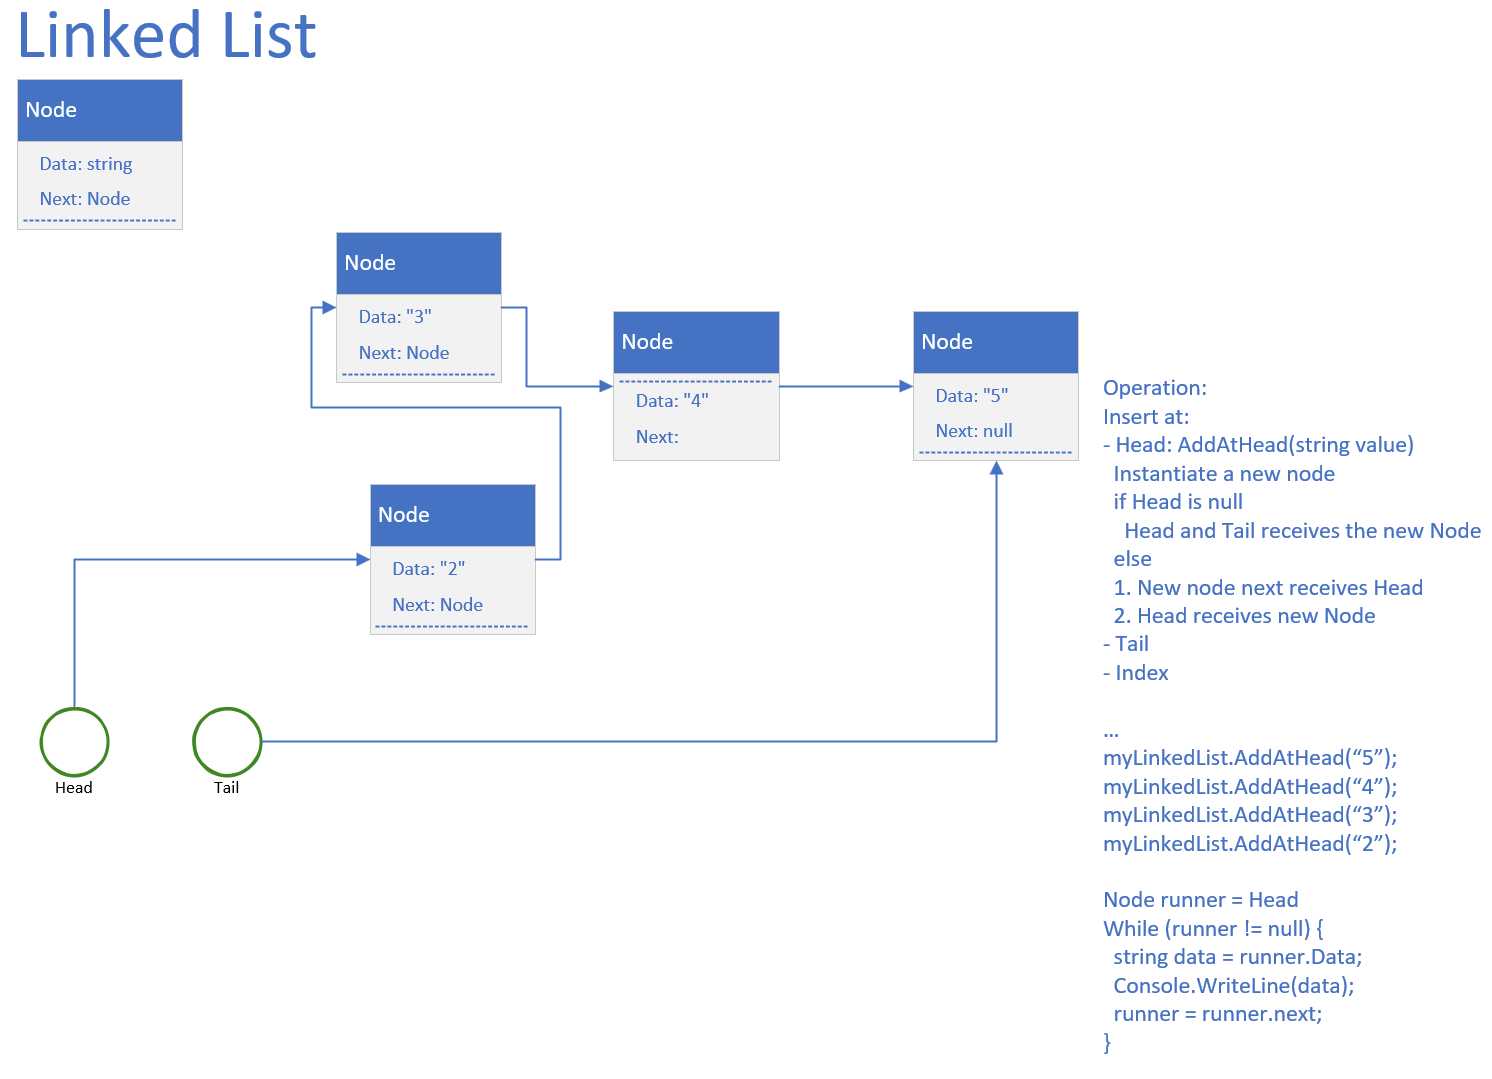
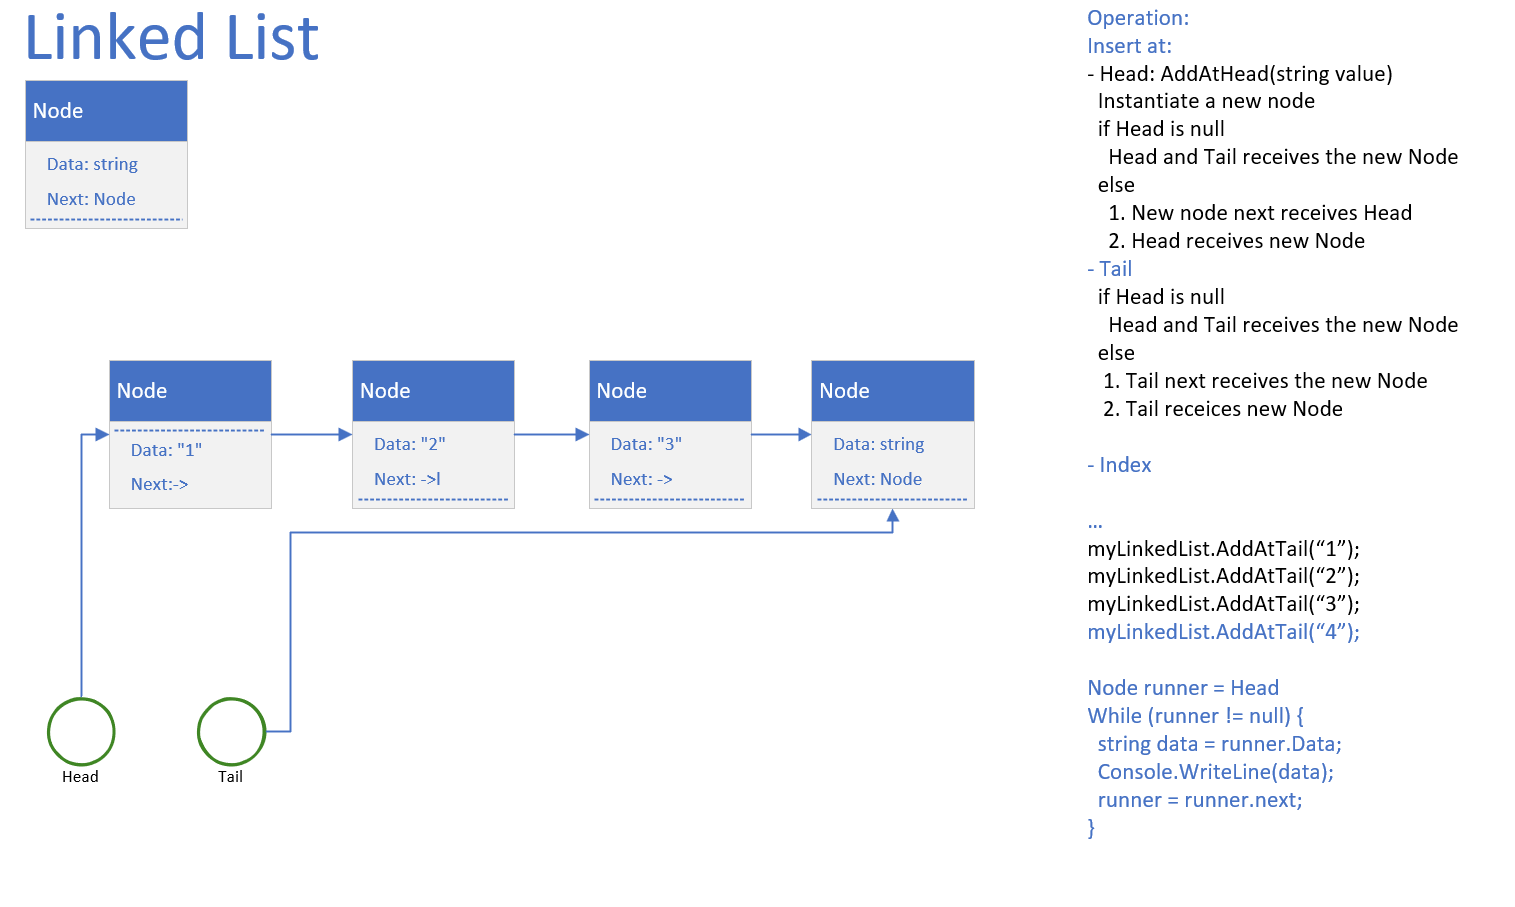
Class #140: Data Structures - Linked List (Part 2)

diff --git a/CSharp/_14_DataStructures/_02_LinkedList.cs b/CSharp/_14_DataStructures/_02_LinkedList.cs
@@ -5,21 +5,21 @@ namespace DataStructures.LinkedList;
 
 public class LinkedListApp
 {
-    public static void Main(string[] args)
+  public static void Main(string[] args)
+  {
+    var linkedList = new LinkedList();
+    linkedList.AddAtHead("Node 3");
+    linkedList.AddAtHead("Node 2");
+    linkedList.AddAtHead("Node 1");
+    foreach (var node in linkedList)
     {
-        var linkedList = new LinkedList();
-        linkedList.AddAtHead("Node 3");
-        linkedList.AddAtHead("Node 2");
-        linkedList.AddAtHead("Node 1");
-        foreach (var node in linkedList)
-        {
-            Console.WriteLine(node);
-        }
-        foreach (Node node in linkedList)
-        {
-            Console.WriteLine($"Node Data: {node.Data}");
-        }
+      Console.WriteLine(node);
     }
+    foreach (Node node in linkedList)
+    {
+      Console.WriteLine($"Node Data: {node.Data}");
+    }
+  }
 }
 
 /// <summary>
@@ -27,30 +27,30 @@ public class LinkedListApp
 /// </summary>
 public class Node
 {
-    /// <summary>
-    /// Gets or sets the data stored in the node.
-    /// </summary>
-    public string Data { set; get; }
+  /// <summary>
+  /// Gets or sets the data stored in the node.
+  /// </summary>
+  public string Data { set; get; }
 
-    /// <summary>
-    /// Gets or sets the reference to the next node in the linked list.
-    /// </summary>
-    public Node Next { set; get; }
+  /// <summary>
+  /// Gets or sets the reference to the next node in the linked list.
+  /// </summary>
+  public Node Next { set; get; }
 
-    /// <summary>
-    /// Initializes a new instance of the <see cref="Node"/> class with the specified data.
-    /// </summary>
-    /// <param name="data">The data to be stored in the node.</param>
-    public Node(string data)
-    {
-        Data = data;
-        Next = null;
-    }
+  /// <summary>
+  /// Initializes a new instance of the <see cref="Node"/> class with the specified data.
+  /// </summary>
+  /// <param name="data">The data to be stored in the node.</param>
+  public Node(string data)
+  {
+    Data = data;
+    Next = null;
+  }
 
-    public override string ToString()
-    {
-        return $"[{Data}]";
-    }
+  public override string ToString()
+  {
+    return $"[{Data}]";
+  }
 }
 
 /// <summary>
@@ -58,121 +58,130 @@ public class Node
 /// </summary>
 public class LinkedList : IEnumerable
 {
-    /// <summary>
-    /// Gets the head node of the linked list.
-    /// </summary>
-    public Node Head { get; private set; }
+  /// <summary>
+  /// Gets the head node of the linked list.
+  /// </summary>
+  public Node Head { get; private set; }
 
-    /// <summary>
-    /// Gets the tail node of the linked list.
-    /// </summary>
-    public Node Tail { get; private set; }
+  /// <summary>
+  /// Gets the tail node of the linked list.
+  /// </summary>
+  public Node Tail { get; private set; }
 
-    /// <summary>
-    /// Gets the number of nodes in the linked list.
-    /// </summary>
-    public int Count { get; private set; }
+  /// <summary>
+  /// Gets the number of nodes in the linked list.
+  /// </summary>
+  public int Count { get; private set; }
 
-    /// <summary>
-    /// Initializes a new instance of the <see cref="LinkedList"/> class.
-    /// </summary>
-    public LinkedList()
+  /// <summary>
+  /// Initializes a new instance of the <see cref="LinkedList"/> class.
+  /// </summary>
+  public LinkedList()
+  {
+    Head = null;
+    Tail = null;
+    Count = 0;
+  }
+
+  /// <summary>
+  /// Adds a new node with the specified data at the head of the linked list.
+  /// </summary>
+  /// <param name="data">The data to be added.</param>
+  public void AddAtHead(string data)
+  {
+    Node newNode = new Node(data);
+    Count++;
+    if (Head == null)
     {
-        Head = null;
-        Tail = null;
-        Count = 0;
+      Head = newNode;
+      Tail = newNode;
     }
-
-    /// <summary>
-    /// Adds a new node with the specified data at the head of the linked list.
-    /// </summary>
-    /// <param name="data">The data to be added.</param>
-    public void AddAtHead(string data)
+    else
     {
-        Node newNode = new Node(data);
-        Count++;
-        if (Head == null)
-        {
-            Head = newNode;
-            Tail = newNode;
-        }
-        else
-        {
-            newNode.Next = Head;
-            Head = newNode;
-        }
+      newNode.Next = Head;
+      Head = newNode;
     }
+  }
 
-    /// <summary>
-    /// Adds a new node with the specified data at the tail of the linked list.
-    /// </summary>
-    /// <param name="data">The data to be added.</param>
-    public void AddAtTail(string data)
+  /// <summary>
+  /// Adds a new node with the specified data at the tail of the linked list.
+  /// </summary>
+  /// <param name="data">The data to be added.</param>
+  public void AddAtTail(string data)
+  {
+    if (Head == null)
     {
-        throw new NotImplementedException();
+      AddAtHead(data);
     }
-
-    /// <summary>
-    /// Adds a new node with the specified data at the specified index in the linked list.
-    /// Raise exception if the index is out of range.
-    /// </summary>
-    /// <param name="data">The data to be added.</param>
-    /// <param name="index">The index at which to add the node.</param>
-    /// <exception cref="System.IndexOutOfRangeException"></exception>
-
-    public void AddAt(string data, int index)
+    else
     {
-        throw new NotImplementedException();
+      Node newNode = new Node(data);
+      Count++;
+      Tail.Next = newNode;
+      Tail = newNode;
     }
+  }
 
-    /// <summary>
-    /// Gets the node at the specified index in the linked list.
-    /// </summary>
-    /// <param name="index">The index of the node to retrieve.</param>
-    /// <returns>The node at the specified index.</returns>
-    public Node Get(int index)
-    {
-        throw new NotImplementedException();
-    }
+  /// <summary>
+  /// Adds a new node with the specified data at the specified index in the linked list.
+  /// Raise exception if the index is out of range.
+  /// </summary>
+  /// <param name="data">The data to be added.</param>
+  /// <param name="index">The index at which to add the node.</param>
+  /// <exception cref="System.IndexOutOfRangeException"></exception>
+  public void AddAt(string data, int index)
+  {
+    throw new NotImplementedException();
+  }
 
-    /// <summary>
-    /// Deletes the node at the head of the linked list.
-    /// </summary>
-    public void DeleteAtHead()
-    {
-        throw new NotImplementedException();
-    }
+  /// <summary>
+  /// Gets the node at the specified index in the linked list.
+  /// </summary>
+  /// <param name="index">The index of the node to retrieve.</param>
+  /// <returns>The node at the specified index.</returns>
+  public Node Get(int index)
+  {
+    throw new NotImplementedException();
+  }
 
-    /// <summary>
-    /// Deletes the node at the tail of the linked list.
-    /// </summary>
-    public void DeleteAtTail()
-    {
-        throw new NotImplementedException();
-    }
+  /// <summary>
+  /// Deletes the node at the head of the linked list.
+  /// </summary>
+  public void DeleteAtHead()
+  {
+    throw new NotImplementedException();
+  }
 
-    /// <summary>
-    /// Deletes the node at the specified index in the linked list.
-    /// Raise exception if the index is out of range.
-    /// </summary>
-    /// <param name="index">The index of the node to delete.</param>
-    /// <exception cref="System.IndexOutOfRangeException"></exception>
-    public void DeleteAt(int index)
-    {
-        throw new NotImplementedException();
-    }
+  /// <summary>
+  /// Deletes the node at the tail of the linked list.
+  /// </summary>
+  public void DeleteAtTail()
+  {
+    throw new NotImplementedException();
+  }
 
-    /// <summary>
-    /// Returns an enumerator that iterates through the linked list.
-    /// </summary>
-    /// <returns>Enumerator</returns>
-    public IEnumerator GetEnumerator()
+  /// <summary>
+  /// Deletes the node at the specified index in the linked list.
+  /// Raise exception if the index is out of range.
+  /// </summary>
+  /// <param name="index">The index of the node to delete.</param>
+  /// <exception cref="System.IndexOutOfRangeException"></exception>
+  public void DeleteAt(int index)
+  {
+    throw new NotImplementedException();
+  }
+
+  /// <summary>
+  /// Returns an enumerator that iterates through the linked list.
+  /// </summary>
+  /// <returns>Enumerator</returns>
+  public IEnumerator GetEnumerator()
+  {
+    Node current = Head;
+    while (current != null)
     {
-        Node current = Head;
-        while (current != null)
-        {
-            yield return current;
-            current = current.Next;
-        }
+      yield return current;
+      current = current.Next;
     }
+  }
 }

diff --git a/README.md b/README.md
@@ -315,5 +315,7 @@
 | 134 | [Unit Testing: Design for Unit Testing](https://youtube.com/live/dvXQZdV0mPg) | [CSharp/_12_UnitTesting/_04_TextFileProcessing_2.cs](https://github.com/airamez/IntroToCode_CSharp01/blob/main/CSharp/_12_UnitTesting/_04_TextFileProcessing_2.cs) <br> [CSharpTest/_04_TextFileProcessing_2Test.cs](https://github.com/airamez/IntroToCode_CSharp01/blob/main/CSharpTest/_04_TextFileProcessing_2Test.cs) |
 | 135 | [Unit Testing: Dependency Inject + Mocking](https://youtube.com/live/Y_4neCFm1A4) | [CSharp/_12_UnitTesting/_04_TextFileProcessing_3.cs](https://github.com/airamez/IntroToCode_CSharp01/blob/main/CSharp/_12_UnitTesting/_04_TextFileProcessing_3.cs) <br> [CSharpTest/_04_TextFileProcessing_3Test.cs](https://github.com/airamez/IntroToCode_CSharp01/blob/main/CSharpTest/_04_TextFileProcessing_3Test.cs) |
 | 136 | [Extras](https://youtube.com/live/GjYbssOcVuU) | [CSharp/_13_Extras/_01_Params.cs](https://github.com/airamez/IntroToCode_CSharp01/blob/main/CSharp/_13_Extras/_01_Params.cs) <br> [CSharp/_13_Extras/_02_Structs.cs](https://github.com/airamez/IntroToCode_CSharp01/blob/main/CSharp/_13_Extras/_02_Structs.cs) <br> [CSharp/_13_Extras/_03_Tuple.cs](https://github.com/airamez/IntroToCode_CSharp01/blob/main/CSharp/_13_Extras/_03_Tuple.cs)|
-| 137 | [Extras](https://youtube.com/live/8JaqXjNFl64) | [CSharp/_14_DataStructures/_01_Intro.txt](https://github.com/airamez/IntroToCode_CSharp01/blob/main/CSharp/_14_DataStructures/_01_Intro.txt)|
-| 138 | [Extras](https://youtube.com/live/WXIWLFeroMI) | [CSharp/_14_DataStructures/_02_LinkedList.cs](https://github.com/airamez/IntroToCode_CSharp01/blob/main/CSharp/_14_DataStructures/_02_LinkedList.cs) <br> [CSharp/_14_DataStructures/_02_LinkedList.png](https://github.com/airamez/IntroToCode_CSharp01/blob/main/CSharp/_14_DataStructures/_02_LinkedList.png)|
+| 137 | [Data Structures: Intro](https://youtube.com/live/8JaqXjNFl64) | [CSharp/_14_DataStructures/_01_Intro.txt](https://github.com/airamez/IntroToCode_CSharp01/blob/main/CSharp/_14_DataStructures/_01_Intro.txt)|
+| 138 | [Data Structures: Linked List (Part 1: Add at Head)](https://youtube.com/live/Y_kt9BXVkCE) | [CSharp/_14_DataStructures/_02_LinkedList.cs](https://github.com/airamez/IntroToCode_CSharp01/blob/main/CSharp/_14_DataStructures/_02_LinkedList.cs) <br> [CSharp/_14_DataStructures/_02_LinkedList.png](https://github.com/airamez/IntroToCode_CSharp01/blob/main/CSharp/_14_DataStructures/_02_LinkedList.png)|
+| 139 | [Data Structures: foreach and IEnumerable](https://youtube.com/live/WXIWLFeroMI) | [CSharp/_14_DataStructures/_02_LinkedList.cs](https://github.com/airamez/IntroToCode_CSharp01/blob/main/CSharp/_14_DataStructures/_02_LinkedList.cs) <br> [CSharp/_14_DataStructures/_02_LinkedList.png](https://github.com/airamez/IntroToCode_CSharp01/blob/main/CSharp/_14_DataStructures/_02_LinkedList.png)|
+| 140 | [Data Structures: Linked List (Part 2: Add at Tail)](https://youtube.com/live/qsG7rdVInM4) | [CSharp/_14_DataStructures/_02_LinkedList.cs](https://github.com/airamez/IntroToCode_CSharp01/blob/main/CSharp/_14_DataStructures/_02_LinkedList.cs) <br> [CSharp/_14_DataStructures/_02_LinkedList.png](https://github.com/airamez/IntroToCode_CSharp01/blob/main/CSharp/_14_DataStructures/_02_LinkedList.png)|
